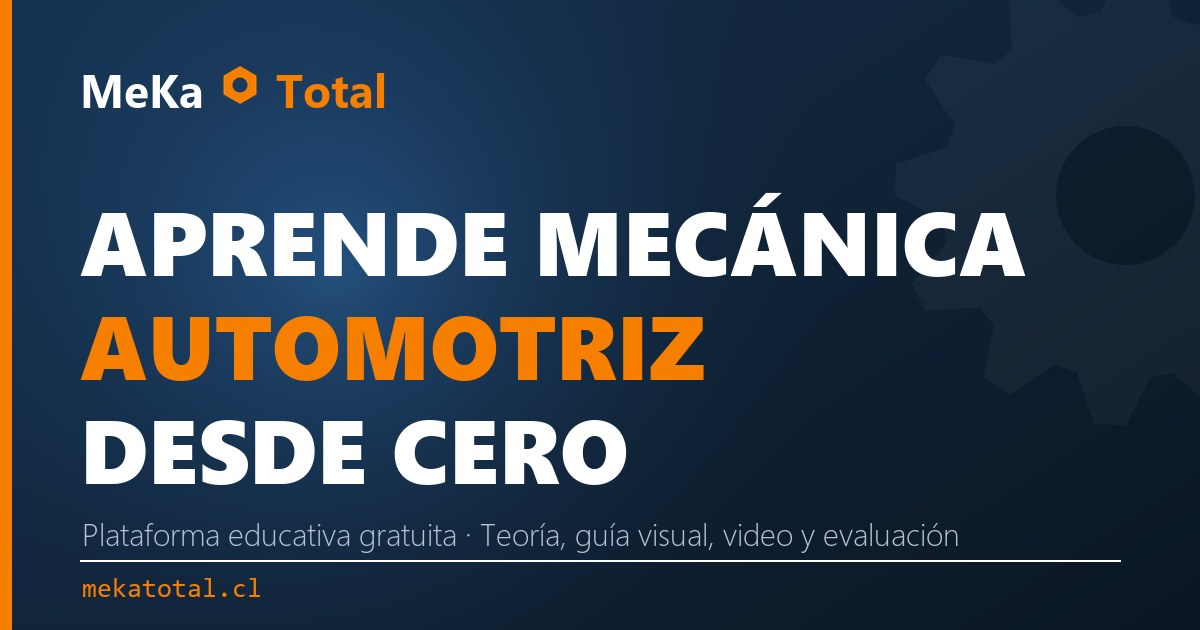
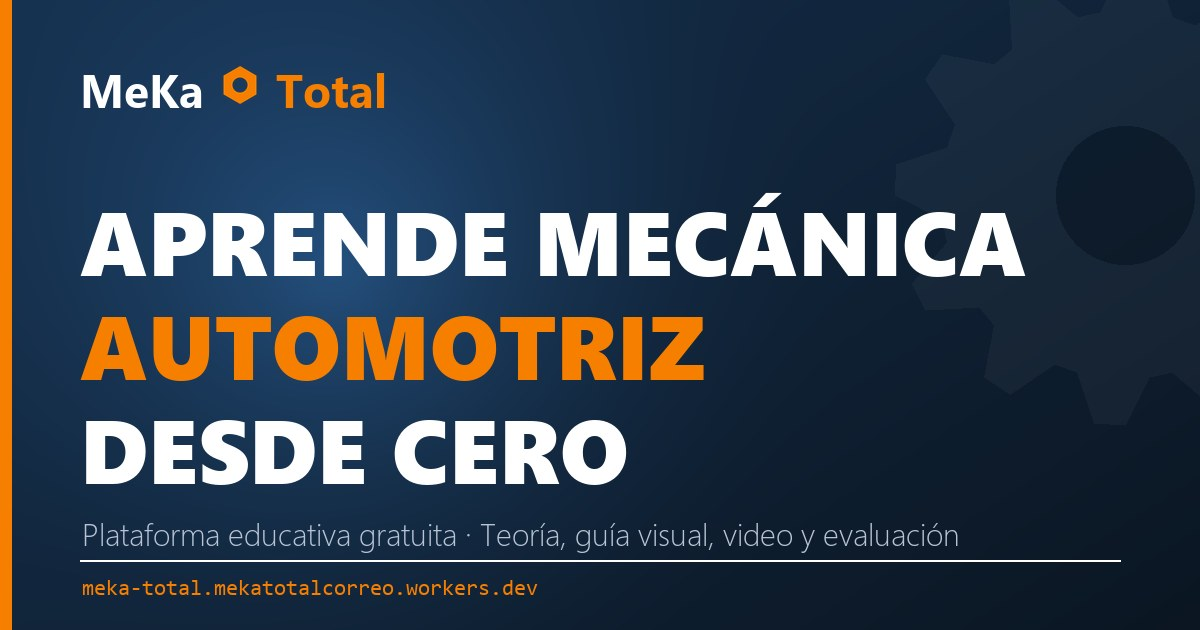
feat: dominio workers.dev, redes sociales y 404 local

Changed region(s): [[0.0617, 0.9048, 0.4625, 0.9651]]

diff --git a/public/index.html b/public/index.html
@@ -6,27 +6,27 @@
 <title>MeKa Total — Aprende Mecánica Automotriz desde Cero</title>
 <meta name="description" content="Plataforma educativa gratuita de Mecánica Automotriz y Maquinaria Pesada, organizada por niveles, con cuestionarios interactivos.">
 <meta name="referrer" content="strict-origin-when-cross-origin">
-<link rel="canonical" href="https://mekatotal.cl/">
+<link rel="canonical" href="https://meka-total.mekatotalcorreo.workers.dev/">
 
 <!-- Favicon -->
 <link rel="icon" type="image/svg+xml" href="/favicon.svg">
 <link rel="apple-touch-icon" sizes="180x180" href="/apple-touch-icon.png">
 
-<!-- Open Graph / redes sociales (reemplaza el dominio por el real al publicar) -->
+<!-- Open Graph / redes sociales -->
 <meta property="og:site_name" content="MeKa Total">
 <meta property="og:type" content="website">
 <meta property="og:locale" content="es_CL">
 <meta property="og:title" content="MeKa Total — Aprende Mecánica Automotriz desde Cero">
 <meta property="og:description" content="Plataforma educativa gratuita de Mecánica Automotriz y Maquinaria Pesada, organizada por niveles, con cuestionarios interactivos.">
-<meta property="og:url" content="https://mekatotal.cl/">
-<meta property="og:image" content="https://mekatotal.cl/img/og-cover.jpg">
+<meta property="og:url" content="https://meka-total.mekatotalcorreo.workers.dev/">
+<meta property="og:image" content="https://meka-total.mekatotalcorreo.workers.dev/img/og-cover.jpg?v=2">
 <meta property="og:image:width" content="1200">
 <meta property="og:image:height" content="630">
 <meta property="og:image:alt" content="MeKa Total — educación automotriz gratuita">
 <meta name="twitter:card" content="summary_large_image">
 <meta name="twitter:title" content="MeKa Total — Aprende Mecánica Automotriz desde Cero">
 <meta name="twitter:description" content="Plataforma educativa gratuita de Mecánica Automotriz, organizada por niveles, con cuestionarios interactivos.">
-<meta name="twitter:image" content="https://mekatotal.cl/img/og-cover.jpg">
+<meta name="twitter:image" content="https://meka-total.mekatotalcorreo.workers.dev/img/og-cover.jpg?v=2">
 <meta name="theme-color" content="#1E3A5F">
 
 <!-- Tipografía: Plus Jakarta Sans (titulares) + Inter (cuerpo) + JetBrains Mono -->
@@ -422,17 +422,10 @@
           <span class="brand-copy"><span class="brand-title">MeKa <img src="img/nut.svg" class="brand-nut" alt="" aria-hidden="true" width="24" height="24"> Total</span><small>Educación automotriz</small></span>
         </a>
         <p>Plataforma educativa gratuita para aprender mecánica automotriz de forma clara, progresiva y accesible.</p>
-        <!--
-          Redes sociales: se dejan desactivadas hasta tener los perfiles reales.
-          Publicar enlaces al home genérico de cada red confunde al visitante.
-          Al crear los perfiles, descomenta el bloque y pon las URLs reales.
-        <div class="social-links">
-          <a href="https://www.facebook.com/TU-PERFIL" target="_blank" rel="noopener noreferrer" aria-label="Facebook" data-social="facebook"></a>
-          <a href="https://www.instagram.com/TU-PERFIL" target="_blank" rel="noopener noreferrer" aria-label="Instagram" data-social="instagram"></a>
-          <a href="https://www.youtube.com/@TU-CANAL" target="_blank" rel="noopener noreferrer" aria-label="YouTube" data-social="youtube"></a>
-          <a href="https://www.tiktok.com/@TU-PERFIL" target="_blank" rel="noopener noreferrer" aria-label="TikTok" data-social="tiktok"></a>
+        <div class="social-links" aria-label="Redes sociales">
+          <a href="https://www.youtube.com/@MeKaTotal" target="_blank" rel="noopener noreferrer" aria-label="YouTube de MeKa Total" title="YouTube" data-social="youtube"></a>
+          <a href="https://www.instagram.com/meka.total/" target="_blank" rel="noopener noreferrer" aria-label="Instagram de MeKa Total" title="Instagram" data-social="instagram"></a>
         </div>
-        -->
       </div>
 
       <div>

diff --git a/public/cursos.html b/public/cursos.html
@@ -6,7 +6,7 @@
 <title>Plataforma de Cursos — MeKa Total</title>
 <meta name="description" content="Aprende Mecánica Automotriz con nuestro esquema de lecciones interactivas. Árbol de navegación lateral con teoría, esquemas vectoriales ampliables y cuestionarios.">
 <meta name="referrer" content="strict-origin-when-cross-origin">
-<link rel="canonical" href="https://mekatotal.cl/cursos.html">
+<link rel="canonical" href="https://meka-total.mekatotalcorreo.workers.dev/cursos.html">
 
 <link rel="icon" type="image/svg+xml" href="/favicon.svg">
 <link rel="apple-touch-icon" sizes="180x180" href="/apple-touch-icon.png">
@@ -15,8 +15,8 @@
 <meta property="og:locale" content="es_CL">
 <meta property="og:title" content="Catálogo y Lecciones — MeKa Total">
 <meta property="og:description" content="Lecciones interactivas de mecánica automotriz: teoría, guía visual, video y evaluación por día.">
-<meta property="og:url" content="https://mekatotal.cl/cursos.html">
-<meta property="og:image" content="https://mekatotal.cl/img/og-cover.jpg">
+<meta property="og:url" content="https://meka-total.mekatotalcorreo.workers.dev/cursos.html">
+<meta property="og:image" content="https://meka-total.mekatotalcorreo.workers.dev/img/og-cover.jpg?v=2">
 <meta name="twitter:card" content="summary_large_image">
 <meta name="theme-color" content="#1E3A5F">
 
@@ -123,16 +123,10 @@
           <span class="brand-copy"><span class="brand-title">MeKa <img src="img/nut.svg" class="brand-nut" alt="" aria-hidden="true" width="24" height="24"> Total</span><small>Educación automotriz</small></span>
         </a>
         <p>Plataforma educativa gratuita para aprender mecánica automotriz de forma clara, progresiva y accesible.</p>
-        <!--
-          Redes sociales: se dejan desactivadas hasta tener los perfiles reales.
-          Al crearlos, descomenta el bloque y pon las URLs reales.
-        <div class="social-links">
-          <a href="https://www.facebook.com/TU-PERFIL" target="_blank" rel="noopener noreferrer" aria-label="Facebook" data-social="facebook"></a>
-          <a href="https://www.instagram.com/TU-PERFIL" target="_blank" rel="noopener noreferrer" aria-label="Instagram" data-social="instagram"></a>
-          <a href="https://www.youtube.com/@TU-CANAL" target="_blank" rel="noopener noreferrer" aria-label="YouTube" data-social="youtube"></a>
-          <a href="https://www.tiktok.com/@TU-PERFIL" target="_blank" rel="noopener noreferrer" aria-label="TikTok" data-social="tiktok"></a>
+        <div class="social-links" aria-label="Redes sociales">
+          <a href="https://www.youtube.com/@MeKaTotal" target="_blank" rel="noopener noreferrer" aria-label="YouTube de MeKa Total" title="YouTube" data-social="youtube"></a>
+          <a href="https://www.instagram.com/meka.total/" target="_blank" rel="noopener noreferrer" aria-label="Instagram de MeKa Total" title="Instagram" data-social="instagram"></a>
         </div>
-        -->
       </div>
 
       <div>

diff --git a/public/privacidad.html b/public/privacidad.html
@@ -7,7 +7,7 @@
 <meta name="description" content="Política de privacidad de MeKa Total: datos del formulario, analítica sin cookies, encargados, transferencias internacionales y derechos conforme a la Ley 21.719.">
 <meta name="referrer" content="strict-origin-when-cross-origin">
 <meta name="robots" content="index, follow">
-<link rel="canonical" href="https://mekatotal.cl/privacidad.html">
+<link rel="canonical" href="https://meka-total.mekatotalcorreo.workers.dev/privacidad.html">
 <link rel="icon" type="image/svg+xml" href="/favicon.svg">
 <link rel="apple-touch-icon" sizes="180x180" href="/apple-touch-icon.png">
 
@@ -93,7 +93,7 @@
         </li>
         <li>
           <strong>Formulario de contacto:</strong>
-          <a href="index.html#contacto">mekatotal.cl/#contacto</a>.
+          <a href="index.html#contacto">formulario de contacto de la portada</a>.
         </li>
         <li><strong>Encargado de prevención:</strong> no aplica.</li>
       </ul>
@@ -401,6 +401,10 @@
     <div class="footer-bottom">
       <p class="footer-motto">"El conocimiento técnico debería estar al alcance de todos."</p>
       <span class="footer-copy">© 2026 MeKa Total · Proyecto educativo</span>
+        <div class="social-links" aria-label="Redes sociales">
+          <a href="https://www.youtube.com/@MeKaTotal" target="_blank" rel="noopener noreferrer" aria-label="YouTube de MeKa Total" title="YouTube" data-social="youtube"></a>
+          <a href="https://www.instagram.com/meka.total/" target="_blank" rel="noopener noreferrer" aria-label="Instagram de MeKa Total" title="Instagram" data-social="instagram"></a>
+        </div>
     </div>
   </div>
 </footer>

diff --git a/public/terminos.html b/public/terminos.html
@@ -7,7 +7,7 @@
 <meta name="description" content="Términos de uso de MeKa Total: proyecto educativo gratuito, alcance del contenido, aviso de seguridad, propiedad intelectual y responsabilidad conforme a la ley chilena.">
 <meta name="referrer" content="strict-origin-when-cross-origin">
 <meta name="robots" content="index, follow">
-<link rel="canonical" href="https://mekatotal.cl/terminos.html">
+<link rel="canonical" href="https://meka-total.mekatotalcorreo.workers.dev/terminos.html">
 <link rel="icon" type="image/svg+xml" href="/favicon.svg">
 <link rel="apple-touch-icon" sizes="180x180" href="/apple-touch-icon.png">
 
@@ -306,6 +306,10 @@
     <div class="footer-bottom">
       <p class="footer-motto">"El conocimiento técnico debería estar al alcance de todos."</p>
       <span class="footer-copy">© 2026 MeKa Total · Proyecto educativo</span>
+        <div class="social-links" aria-label="Redes sociales">
+          <a href="https://www.youtube.com/@MeKaTotal" target="_blank" rel="noopener noreferrer" aria-label="YouTube de MeKa Total" title="YouTube" data-social="youtube"></a>
+          <a href="https://www.instagram.com/meka.total/" target="_blank" rel="noopener noreferrer" aria-label="Instagram de MeKa Total" title="Instagram" data-social="instagram"></a>
+        </div>
     </div>
   </div>
 </footer>

diff --git a/public/404.html b/public/404.html
@@ -78,6 +78,10 @@
     <div class="footer-bottom">
       <p class="footer-motto">"El conocimiento técnico debería estar al alcance de todos."</p>
       <span class="footer-copy">© 2026 MeKa Total · Proyecto educativo</span>
+        <div class="social-links" aria-label="Redes sociales">
+          <a href="https://www.youtube.com/@MeKaTotal" target="_blank" rel="noopener noreferrer" aria-label="YouTube de MeKa Total" title="YouTube" data-social="youtube"></a>
+          <a href="https://www.instagram.com/meka.total/" target="_blank" rel="noopener noreferrer" aria-label="Instagram de MeKa Total" title="Instagram" data-social="instagram"></a>
+        </div>
     </div>
   </div>
 </footer>
